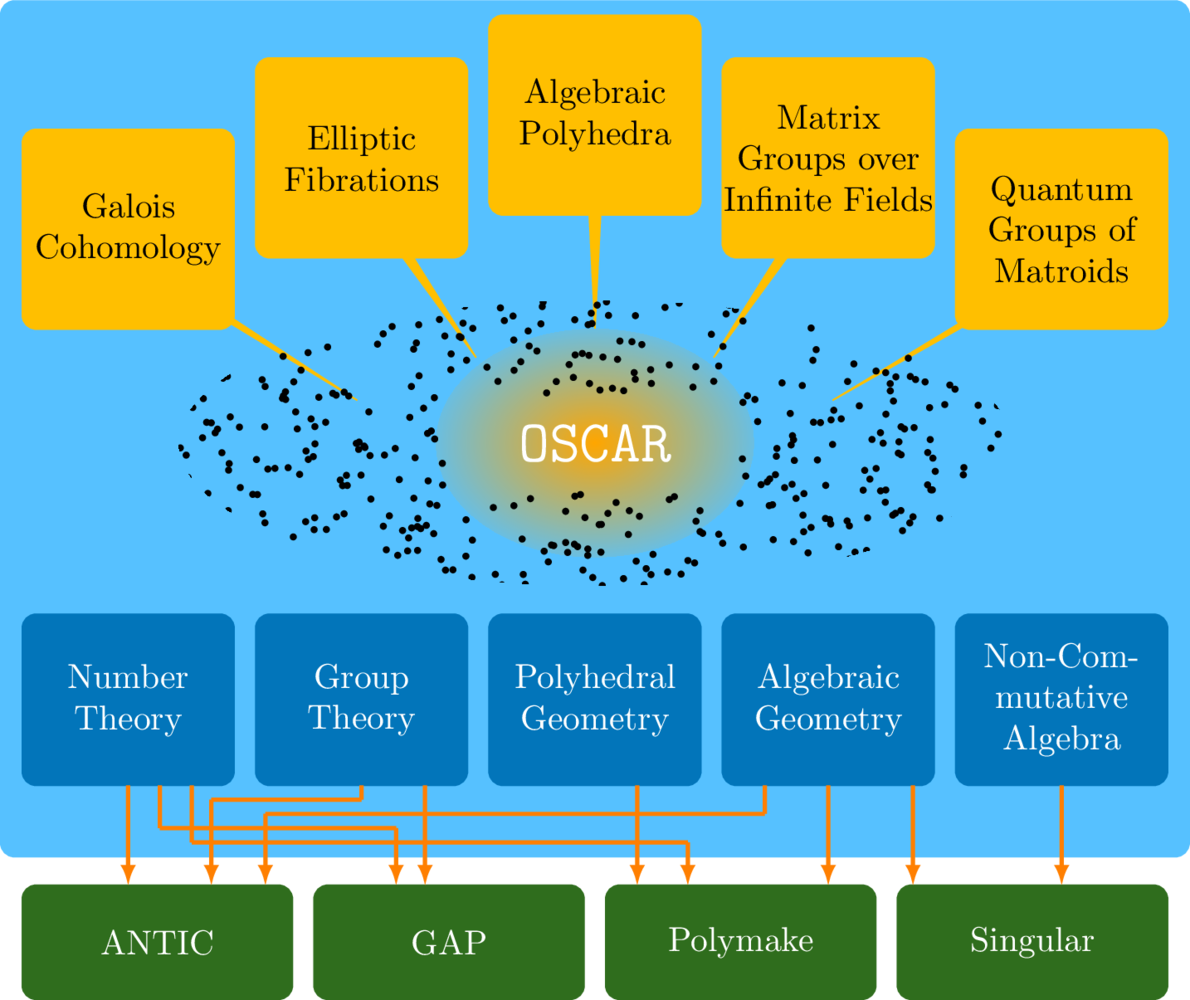
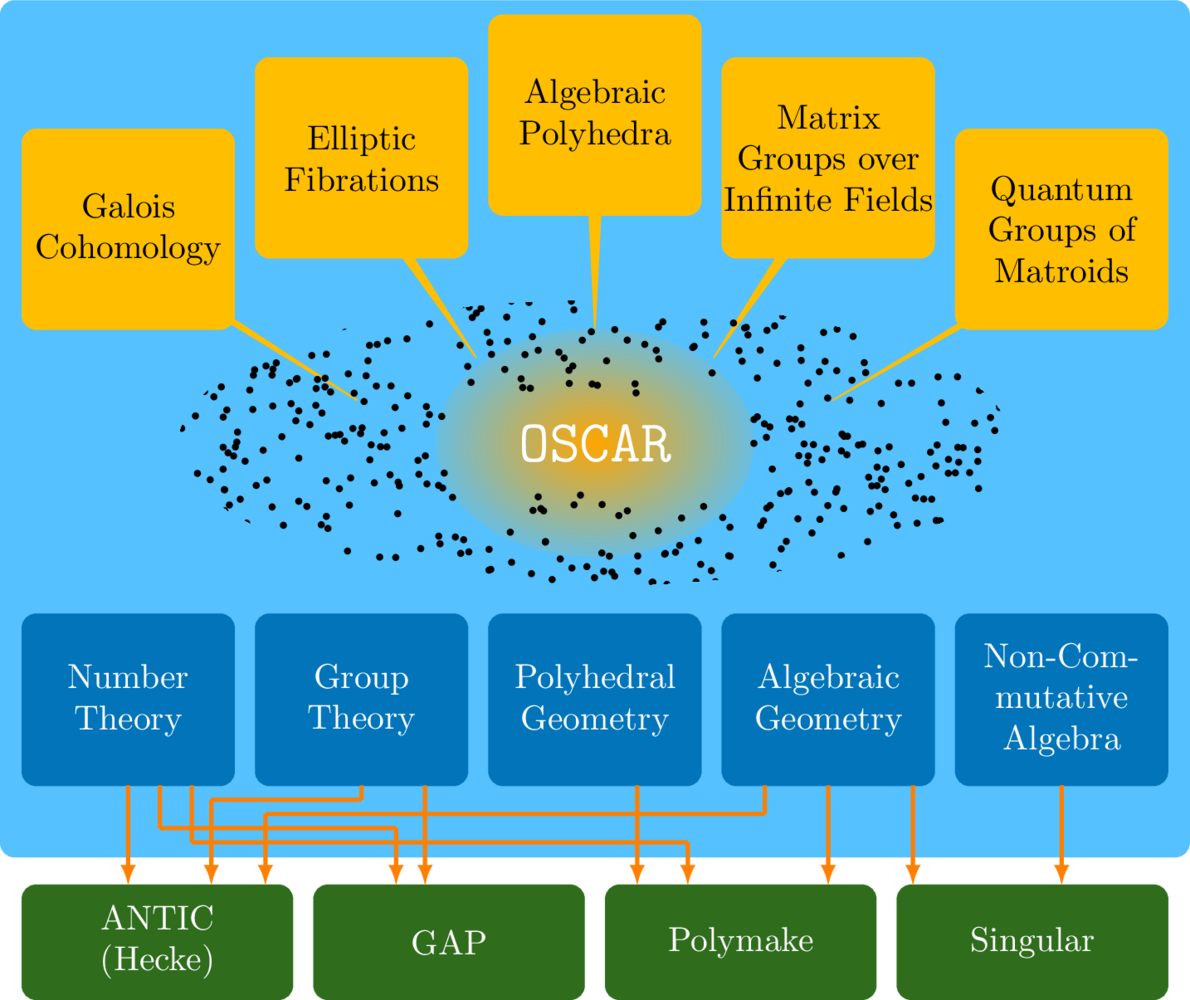
Add instructions and script to recreate the OSCAR overview picture, then update the overview picture

Changed region(s): [[0.1555, 0.31, 0.8395, 0.589], [0.0933, 0.899, 0.1866, 0.992]]

diff --git a/about.md b/about.md
@@ -28,6 +28,21 @@ expressive environment.
 
 <img src="{{ site.baseurl }}/public/OSCAR-overview.png" alt="OSCAR Overview" width="70%" style="margin-left:13%;" align="center">
 
+<!--
+To update OSCAR-overview.png, run the following shell script:
+
+    /etc/build-overview.sh
+
+This script compiles _data/OSCAR-overview.tex, converts the resulting PDF into a web-optimized PNG,
+and places the final image in the /public folder.
+
+Dependencies:
+  - pdflatex
+  - ImageMagick (for the 'convert' command)
+
+The LaTeX source is located in: _data/OSCAR-overview.tex
+-->
+
 {: .caption }
 The OSCAR system connects advanced mathematical computations with the power of
 multiple domain-specific tools. At the top, sample applications—ranging from
